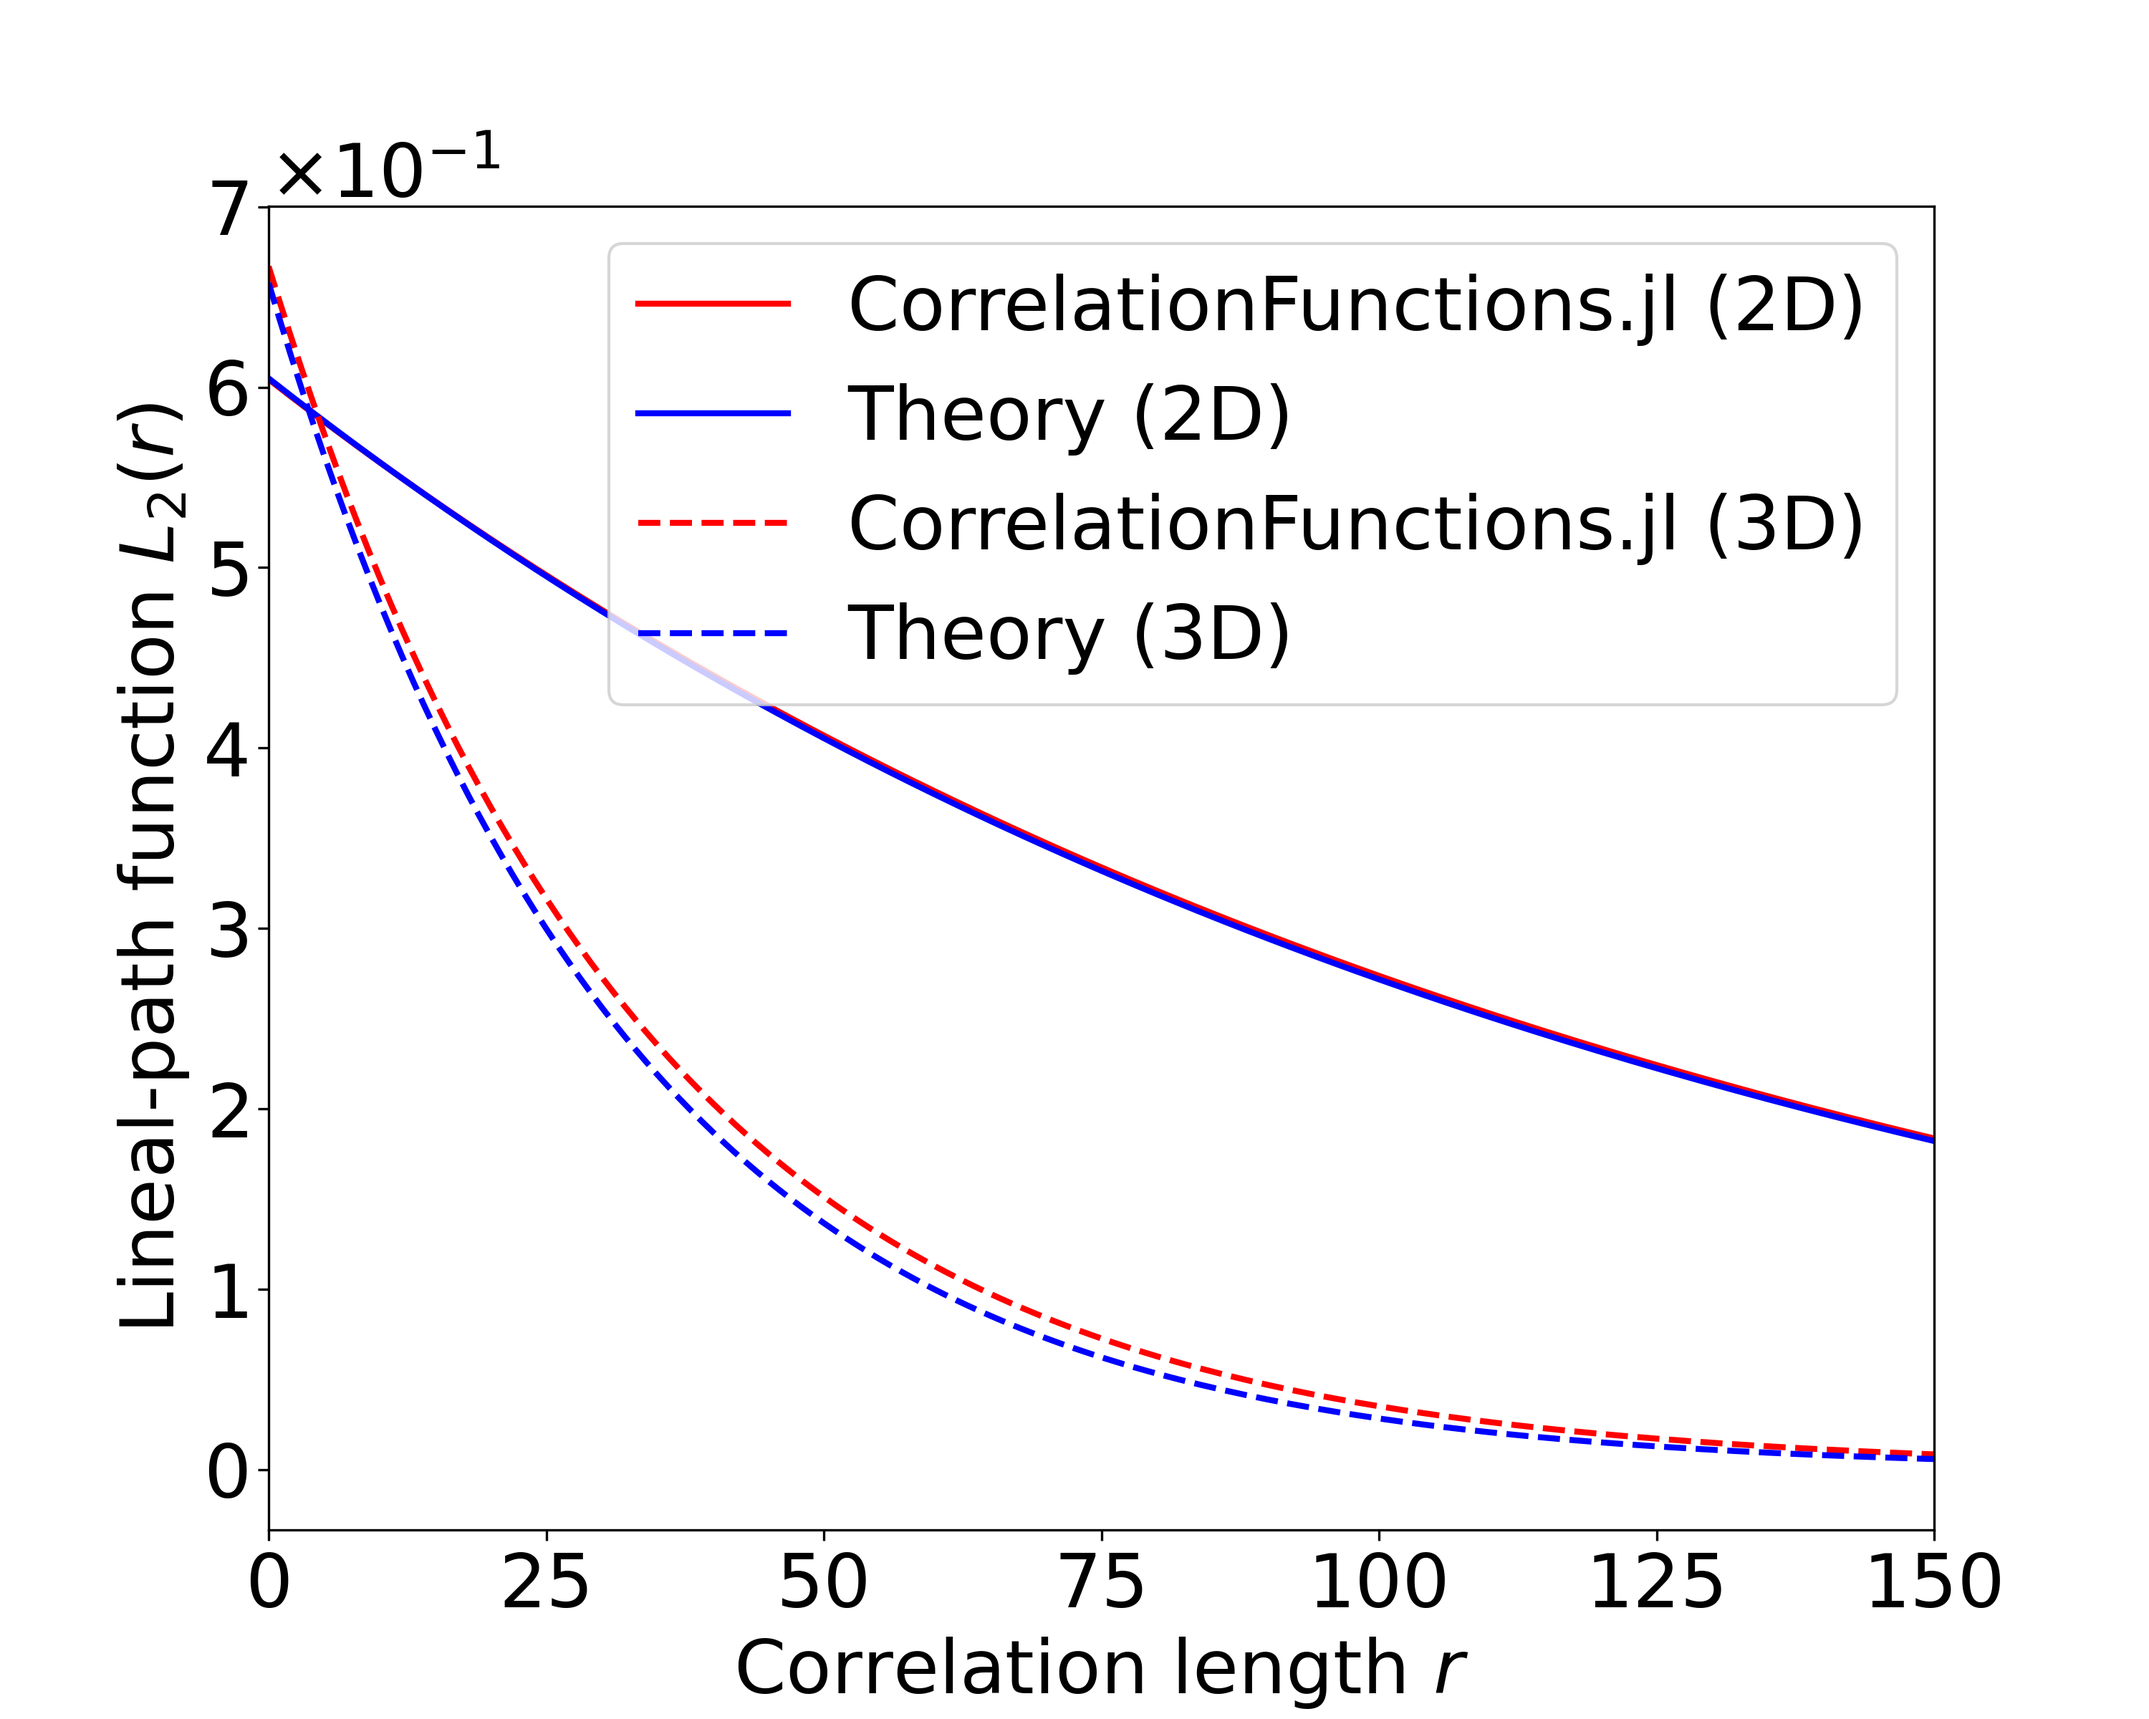
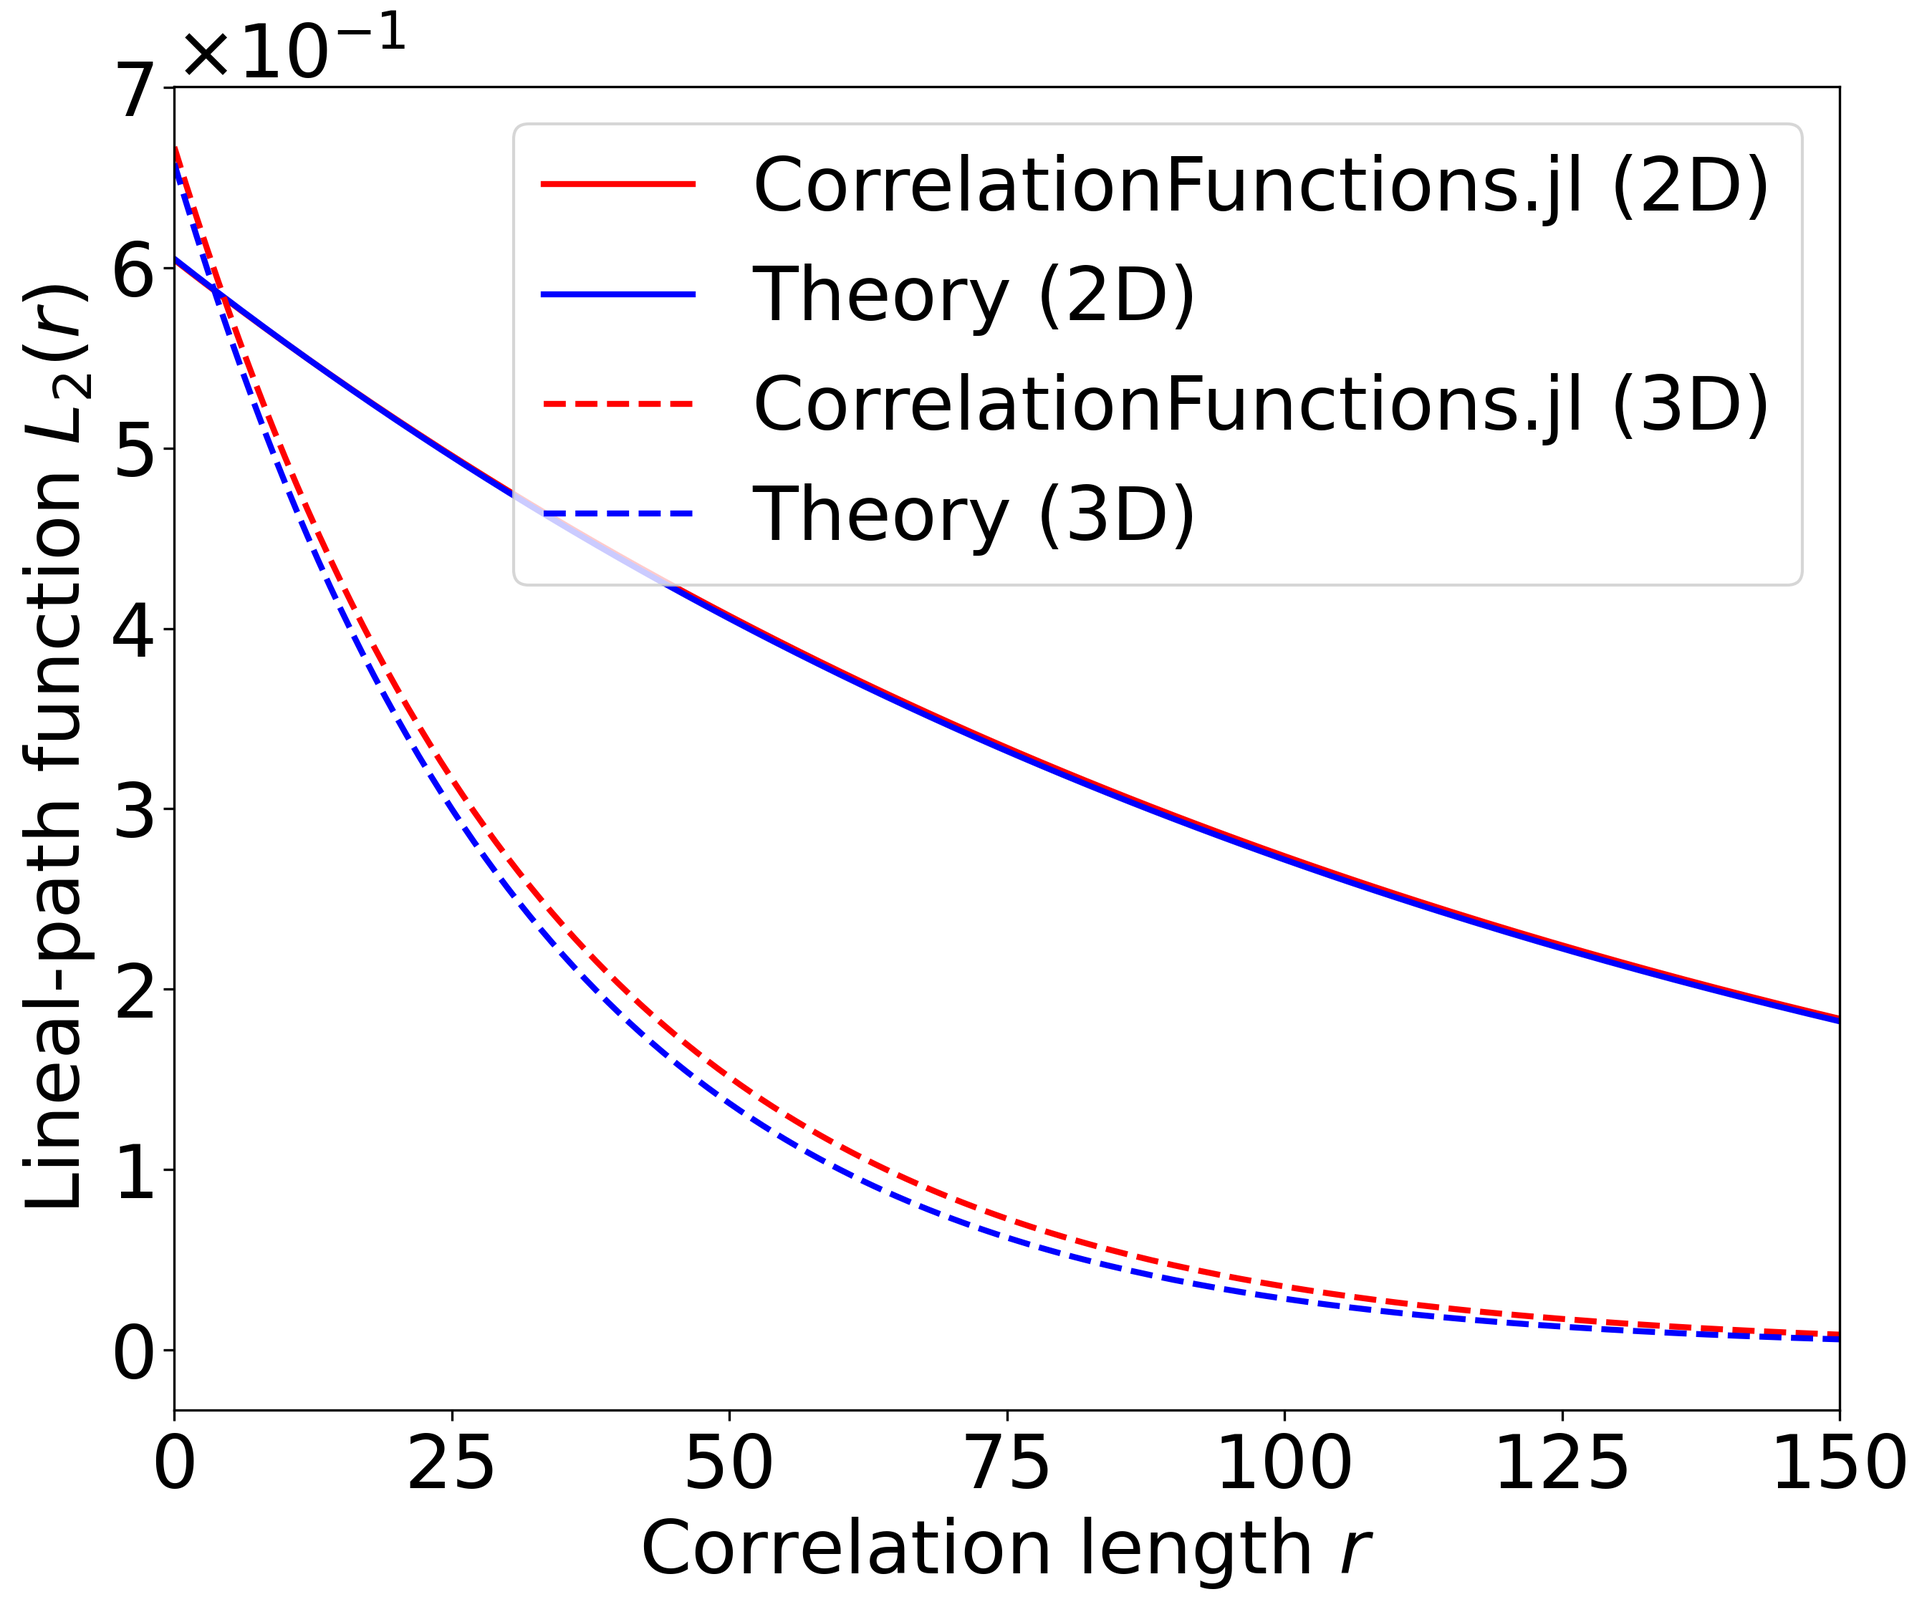
Enlarge figure 4

diff --git a/verification/plot.py b/verification/plot.py
@@ -18,7 +18,7 @@ plt.xlabel('Correlation length $r$')
 plt.ylabel('Two point function $S_2(r)$')
 plt.legend(['CorrelationFunctions.jl (2D)', 'Theory (2D)',
             'CorrelationFunctions.jl (3D)', 'Theory (3D)'])
-plt.savefig('s2.png')
+plt.savefig('s2.png', bbox_inches = 'tight')
 
 l2_2d = np.loadtxt('l2-2d.dat')
 l2_3d = np.loadtxt('l2-3d.dat')
@@ -35,7 +35,7 @@ plt.xlabel('Correlation length $r$')
 plt.ylabel('Lineal-path function $L_2(r)$')
 plt.legend(['CorrelationFunctions.jl (2D)', 'Theory (2D)',
             'CorrelationFunctions.jl (3D)', 'Theory (3D)'])
-plt.savefig('l2.png')
+plt.savefig('l2.png', bbox_inches = 'tight')
 
 ss_2d = np.loadtxt('ss-2d.dat')
 ss_3d = np.loadtxt('ss-3d.dat')
@@ -52,7 +52,7 @@ plt.xlabel('Correlation length $r$')
 plt.ylabel('Surface-surface function $F_{ss}(r)$')
 plt.legend(['CorrelationFunctions.jl (2D)', 'Theory (2D)',
             'CorrelationFunctions.jl (3D)', 'Theory (3D)'])
-plt.savefig('ss.png')
+plt.savefig('ss.png', bbox_inches = 'tight')
 
 sv_2d = np.loadtxt('sv-2d.dat')
 sv_3d = np.loadtxt('sv-3d.dat')
@@ -69,7 +69,7 @@ plt.xlabel('Correlation length $r$')
 plt.ylabel('Surface-void function $F_{sv}(r)$')
 plt.legend(['CorrelationFunctions.jl (2D)', 'Theory (2D)',
             'CorrelationFunctions.jl (3D)', 'Theory (3D)'])
-plt.savefig('sv.png')
+plt.savefig('sv.png', bbox_inches = 'tight')
 
 ps_hist_2d = np.loadtxt('pore_size-2d-hist.dat')
 ps_prob_2d = np.loadtxt('pore_size-2d-prob.dat')
@@ -88,7 +88,7 @@ plt.xlabel('Pore size $r$')
 plt.ylabel('Pore size function $P(r)$')
 plt.legend(['Theory (2D)', 'Theory (3D)',
             'CorrelationFunctions.jl (2D)', 'CorrelationFunctions.jl (3D)'])
-plt.savefig('ps.png')
+plt.savefig('ps.png', bbox_inches = 'tight')
 
 cl_hist_2d = np.loadtxt('chord_length-2d-hist.dat')
 cl_prob_2d = np.loadtxt('chord_length-2d-prob.dat')
@@ -107,4 +107,4 @@ plt.xlabel('Chord length $r$')
 plt.ylabel('Chord length function $p(r)$')
 plt.legend(['Theory (2D)', 'Theory (3D)',
             'CorrelationFunctions.jl (2D)', 'CorrelationFunctions.jl (3D)'])
-plt.savefig('cl.png')
+plt.savefig('cl.png', bbox_inches = 'tight')

diff --git a/paper-correlations.tex b/paper-correlations.tex
@@ -870,29 +870,17 @@ The package contains automatic tests based on these comparisons.
 
 \begin{figure*}[tp]
   \centering
-  \subfigure[Lineal-path correlation function]{
-    \includegraphics[width=0.45\linewidth]{images/l2.png}
-    \label{fig:l2}}
+  \includegraphics[width=0.45\linewidth]{images/l2.png}
   \hfill
-  \subfigure[Two-point correlation function]{
-    \includegraphics[width=0.45\linewidth]{images/s2.png}
-    \label{fig:s2}}
+  \includegraphics[width=0.45\linewidth]{images/s2.png}
   \vskip\baselineskip
-  \subfigure[Surface-surface correlation function]{
-    \includegraphics[width=0.45\linewidth]{images/ss.png}
-    \label{fig:ss}}
+  \includegraphics[width=0.45\linewidth]{images/ss.png}
   \hfill
-  \subfigure[Surface-void correlation function]{
-    \includegraphics[width=0.45\linewidth]{images/sv.png}
-    \label{fig:sv}}
+  \includegraphics[width=0.45\linewidth]{images/sv.png}
   \vskip\baselineskip
-  \subfigure[Pore size correlation function]{
-    \includegraphics[width=0.45\linewidth]{images/ps.png}
-    \label{fig:ps}}
+  \includegraphics[width=0.45\linewidth]{images/ps.png}
   \hfill
-  \subfigure[Chord length correlation function]{
-    \includegraphics[width=0.45\linewidth]{images/cl.png}
-    \label{fig:cl}}
+  \includegraphics[width=0.45\linewidth]{images/cl.png}
   \caption[]{A comparison of calculated and theoretical values of correlation
     functions for overlapping disks and balls.}
   \label{fig:verification}
